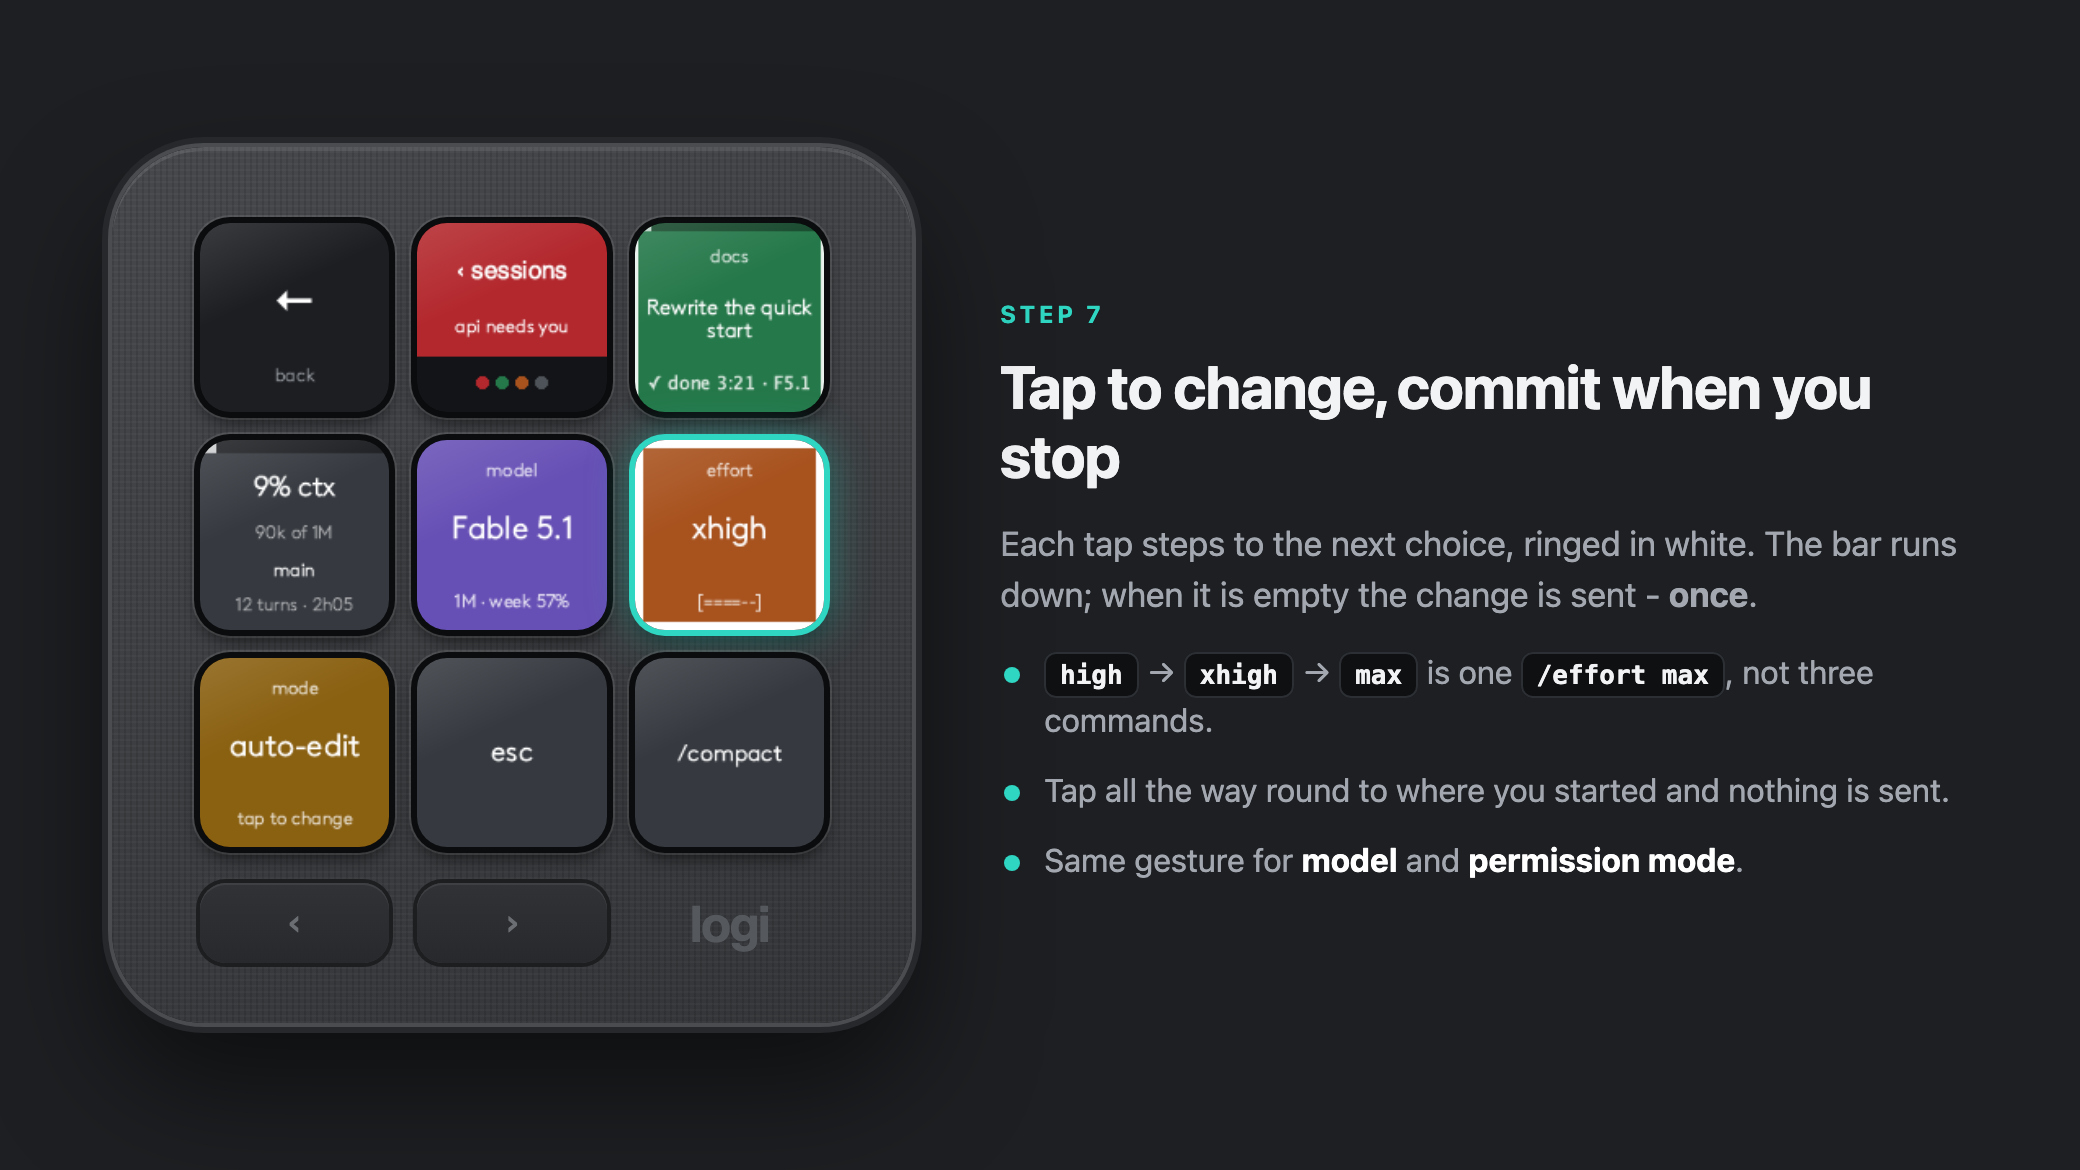
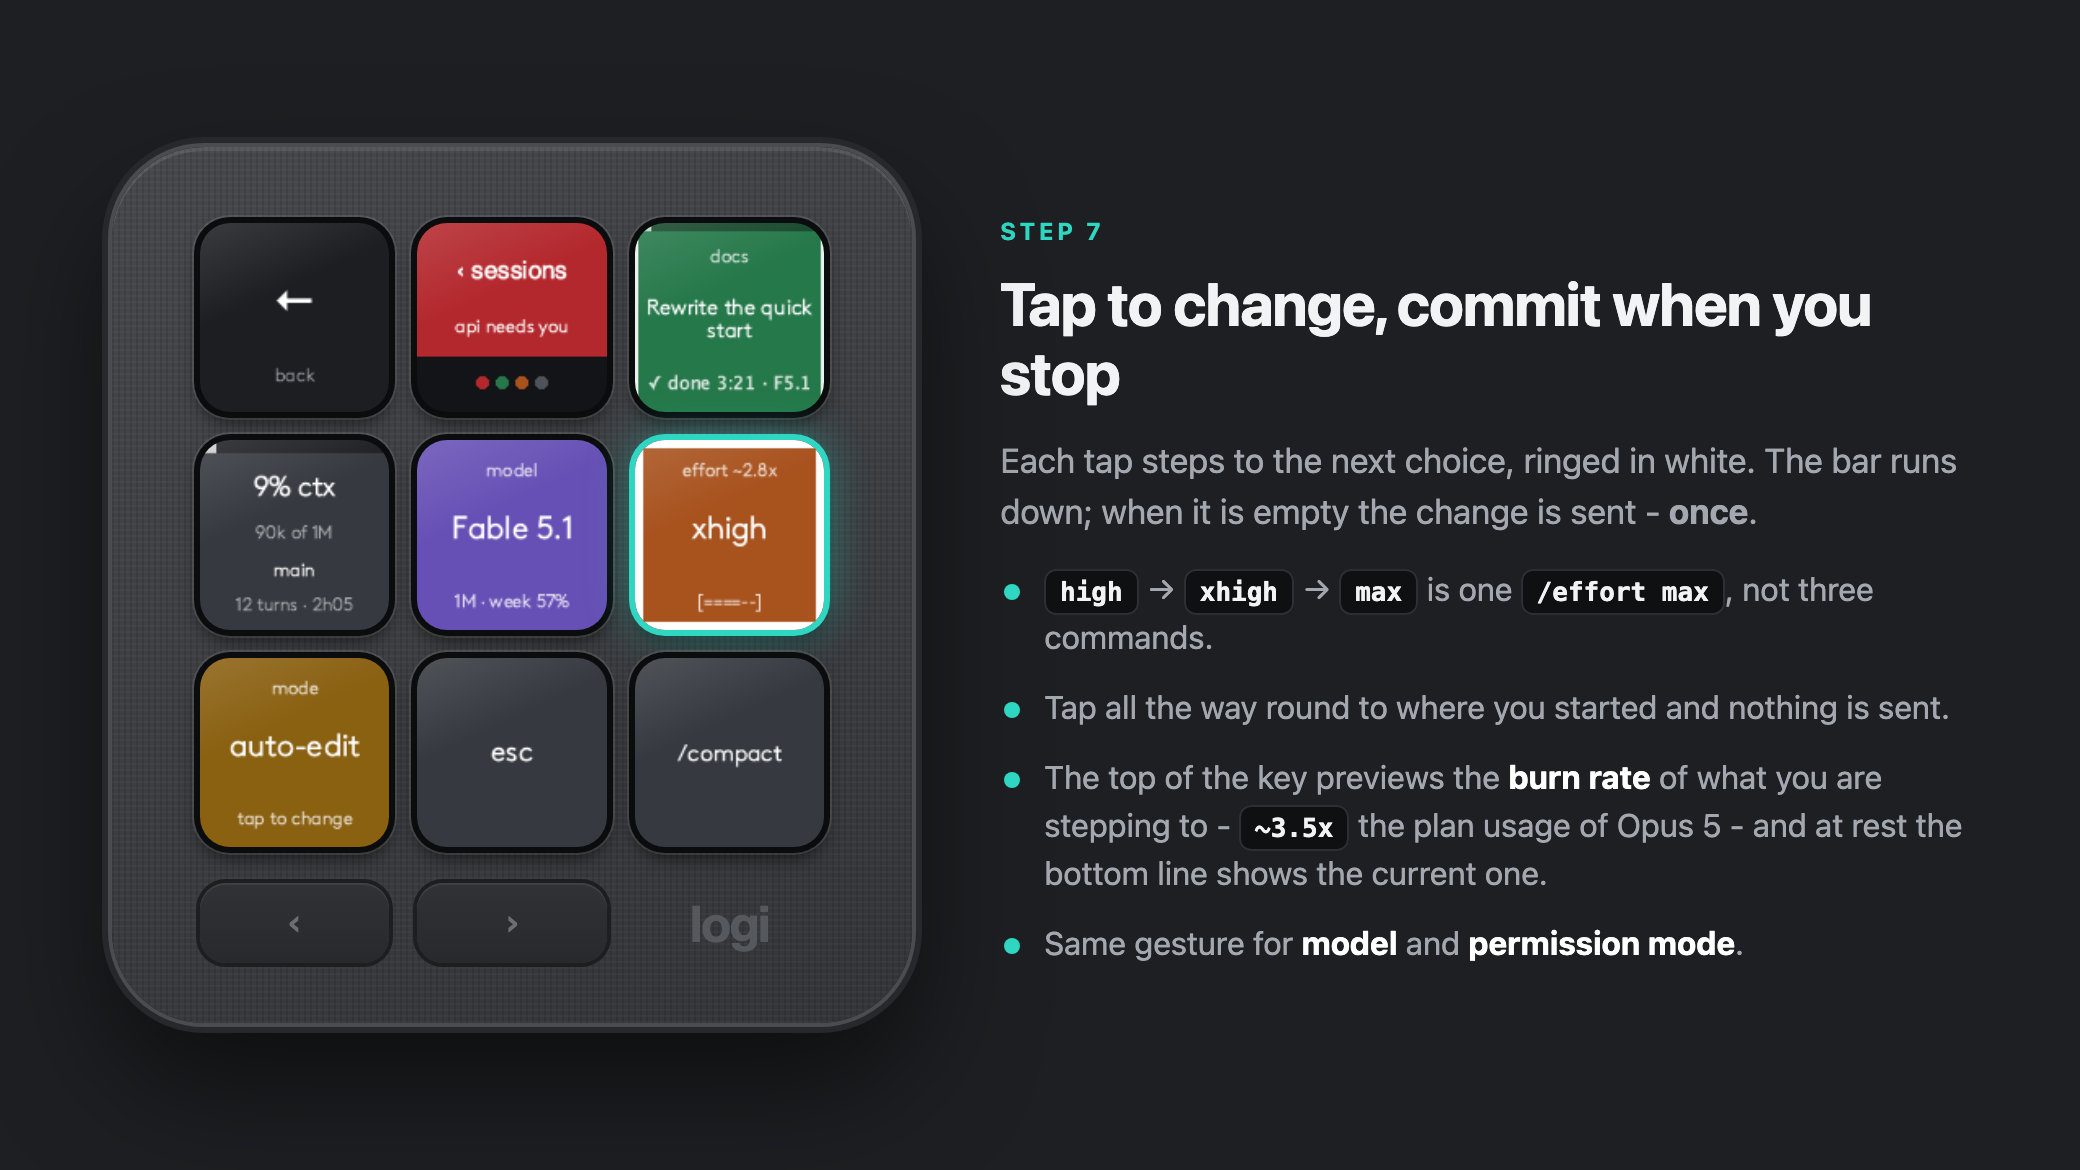
Effort key shows the burn rate against Opus 5
Under the level, how fast the session eats the plan at that model and effort
as a multiple of Opus 5 at high - ~2x opus for Fable 5.1 at high - and, while
stepping, the rate of the level being stepped to. From Claude Code's own model
table: price tier times effort_cost_index.

diff --git a/docs/steps/steps.html b/docs/steps/steps.html
@@ -219,6 +219,7 @@
       <ul>
         <li><span><kbd>high</kbd> → <kbd>xhigh</kbd> → <kbd>max</kbd> is one <kbd>/effort max</kbd>, not three commands.</span></li>
         <li><span>Tap all the way round to where you started and nothing is sent.</span></li>
+        <li><span>The top of the key previews the <b>burn rate</b> of what you are stepping to - <kbd>~3.5x</kbd> the plan usage of Opus 5 - and at rest the bottom line shows the current one.</span></li>
         <li><span>Same gesture for <b>model</b> and <b>permission mode</b>.</span></li>
       </ul>
     </div>

diff --git a/plugin/src/Sessions/ModelCosts.cs b/plugin/src/Sessions/ModelCosts.cs
@@ -1,0 +1,112 @@
+namespace Loupedeck.ClaudeDeckPlugin
+{
+    using System;
+    using System.Collections.Generic;
+    using System.Globalization;
+    using System.Text.RegularExpressions;
+
+    // How fast a session burns your plan, as a multiple of Opus 5 at its default effort (high).
+    //
+    // Two things set the rate: the model's price per token, and how much more it thinks at a higher
+    // effort. Both come from Claude Code's own model table (2.1.278) - the price tier of each model,
+    // and its effort_cost_index, which is what Claude Code itself uses to say "~1.4x" when you change
+    // effort. Plan usage is charged in proportion to price, so the product is the multiple.
+    //
+    // A model not in the table gets no line, rather than a wrong one.
+    public static class ModelCosts
+    {
+        private sealed class Cost
+        {
+            public Double Price { get; init; }               // input $/M tokens
+            public Dictionary<String, Double> Effort { get; init; }   // level -> index, high = 1
+            public String DefaultEffort { get; init; } = "high";
+        }
+
+        private static readonly Dictionary<String, Double> None = new();
+
+        // id (without date suffix or [1m]) -> cost
+        private static readonly Dictionary<String, Cost> Table = new(StringComparer.OrdinalIgnoreCase)
+        {
+            ["claude-opus-5"] = new() { Price = 5, Effort = Index(0.67, 0.76, 1, 1.6, 1.7) },
+            ["claude-fable-5-1"] = new() { Price = 10, Effort = Index(0.75, 0.86, 1, 1.38, 1.74) },
+            ["claude-fable-5"] = new() { Price = 10, Effort = Index(0.6, 0.77, 1, 1.74, 1.91) },
+            ["claude-mythos-5-1"] = new() { Price = 10, Effort = Index(0.75, 0.86, 1, 1.38, 1.74) },
+            ["claude-mythos-5"] = new() { Price = 10, Effort = None },
+            ["claude-sonnet-5"] = new() { Price = 2, Effort = Index(0.47, 0.74, 1, 2.41, 5.59) },
+            ["claude-opus-4-8"] = new() { Price = 5, Effort = Index(0.72, 0.9, 1, 1.65, 1.88) },
+            ["claude-opus-4-7"] = new() { Price = 5, Effort = None, DefaultEffort = "xhigh" },
+            ["claude-opus-4-6"] = new() { Price = 5, Effort = None },
+            ["claude-opus-4-5"] = new() { Price = 5, Effort = None },
+            ["claude-opus-4-1"] = new() { Price = 15, Effort = None },
+            ["claude-opus-4-0"] = new() { Price = 15, Effort = None },
+            ["claude-sonnet-4-6"] = new() { Price = 3, Effort = None },
+            ["claude-sonnet-4-5"] = new() { Price = 3, Effort = None },
+            ["claude-sonnet-4-0"] = new() { Price = 3, Effort = None },
+            ["claude-3-7-sonnet"] = new() { Price = 3, Effort = None },
+            ["claude-haiku-4-5"] = new() { Price = 1, Effort = None },
+            ["claude-3-5-haiku"] = new() { Price = 0.8, Effort = None },
+        };
+
+        private const String Baseline = "claude-opus-5";
+
+        private static readonly Regex Dated = new(@"-\d{8}$", RegexOptions.Compiled);
+        private static readonly Regex Bracketed = new(@"\[.*?\]", RegexOptions.Compiled);
+
+        private static Dictionary<String, Double> Index(Double low, Double medium, Double high, Double xhigh, Double max) =>
+            new() { ["low"] = low, ["medium"] = medium, ["high"] = high, ["xhigh"] = xhigh, ["max"] = max };
+
+        // The multiple for this session at the given effort, or -1 when its model is not known here.
+        public static Double Multiple(SessionInfo s, String effort)
+        {
+            var cost = Find(s);
+            if (cost == null)
+            {
+                return -1;
+            }
+
+            var level = (effort ?? "").ToLowerInvariant() switch
+            {
+                "ultracode" => "xhigh",
+                "" or "auto" => cost.DefaultEffort,
+                var e => e,
+            };
+            var index = cost.Effort.TryGetValue(level, out var i) ? i : 1;
+            var baseline = Table[Baseline];
+            return cost.Price * index / (baseline.Price * baseline.Effort[baseline.DefaultEffort]);
+        }
+
+        // "~2.8x opus" - or "1x opus" for the baseline itself.
+        public static String Label(SessionInfo s, String effort)
+        {
+            var m = Multiple(s, effort);
+            if (m < 0)
+            {
+                return "";
+            }
+
+            var rounded = Math.Round(m, m < 1 ? 2 : 1);
+            var text = Math.Abs(rounded - Math.Round(rounded)) < 0.01
+                ? ((Int32)Math.Round(rounded)).ToString(CultureInfo.InvariantCulture)
+                : rounded.ToString(m < 1 ? "0.##" : "0.#", CultureInfo.InvariantCulture);
+            return Math.Abs(m - 1) < 0.01 ? "1x opus" : $"~{text}x opus";
+        }
+
+        private static Cost Find(SessionInfo s)
+        {
+            if (s == null)
+            {
+                return null;
+            }
+
+            // The API id, as the transcript has it; else rebuilt from the name Claude Code prints.
+            var id = Bracketed.Replace(s.Model ?? "", "").Trim();
+            id = Dated.Replace(id, "");
+            if (id.Length == 0 && s.Selected.IsKnown)
+            {
+                id = "claude-" + s.Selected.Name.ToLowerInvariant().Replace('.', '-').Replace(' ', '-');
+            }
+
+            return Table.TryGetValue(id, out var cost) ? cost : null;
+        }
+    }
+}

diff --git a/plugin/src/Sessions/Settings.cs b/plugin/src/Sessions/Settings.cs
@@ -32,6 +32,9 @@ namespace Loupedeck.ClaudeDeckPlugin
         // ...and on a session's own page (which shows the title on top, so has room for more).
         public virtual String Detail(SessionInfo s) => "tap to change";
 
+        // While stepping, next to the title: what choosing this option would mean.
+        public virtual String Preview(SessionInfo s, Int32 option) => "";
+
         // Why it cannot be changed right now, or null.
         public virtual String Blocked(SessionInfo s) => Deck.Busy(s);
 
@@ -100,6 +103,16 @@ namespace Loupedeck.ClaudeDeckPlugin
         public override Int32 CurrentIndex(SessionInfo s) => Array.FindIndex(Levels, l => l.Label == s.Effort);
 
         public override String CurrentText(SessionInfo s) => s.Effort.Length > 0 ? s.Effort : "auto";
+
+        // How fast this session burns the plan at this effort, against Opus 5: "~2.8x opus".
+        public override String Hint(SessionInfo s) => Rate(s, s.Effort) is { Length: > 0 } r ? $"effort · {r.Replace(" opus", "")}" : "effort";
+
+        public override String Detail(SessionInfo s) => Rate(s, s.Effort) is { Length: > 0 } r ? r : "tap to change";
+
+        public override String Preview(SessionInfo s, Int32 option) =>
+            option >= 0 && option < Levels.Length ? Rate(s, Levels[option].Label).Replace(" opus", "") : "";
+
+        private static String Rate(SessionInfo s, String effort) => s == null ? "" : ModelCosts.Label(s, effort);
 
         public override Boolean Apply(SessionInfo s, Int32 from, Int32 to) =>
             to >= 0 && to < Levels.Length && Deck.RunSlash(s, $"/effort {Levels[to].Label}");
@@ -308,12 +321,15 @@ namespace Loupedeck.ClaudeDeckPlugin
         {
             var options = this.Setting.Options;
             var pending = this._pending;
+            var session = pending >= 0 ? SessionStore.Instance.Find(this._sessionKey) ?? target : target;
             if (pending >= 0 && pending < options.Count)
             {
                 // How long until the taps are taken as final, as a bar running down.
                 var left = (new DateTime(Interlocked.Read(ref this._commitsAtTicks)) - DateTime.UtcNow).TotalMilliseconds / CommitMs;
                 var hint = DeckConfig.Ascii ? TileRenderer.Ascii.Countdown(left) : "tap: next";
-                return TileRenderer.Model(this.Setting.Title, options[pending].Label, hint, options[pending].Color, true, false, size);
+                var preview = this.Setting.Preview(session, pending);
+                var title = preview.Length > 0 ? $"{this.Setting.Title} {preview}" : this.Setting.Title;
+                return TileRenderer.Model(title, options[pending].Label, hint, options[pending].Color, true, false, size);
             }
 
             if (target == null)

diff --git a/README.md b/README.md
@@ -125,11 +125,11 @@ one and you are on that session's own page:**
 ├───────────┼───────────┼───────────┤   the tile    live; press = jump to its pane, hold = interrupt
 │  32% ctx  │   model   │  effort   │   info        context % and tokens, branch, turns, age
 │ 317k of 1M│ Fable 5.1 │   high    │   model       tap to step (see Model switch); underneath, how
-│ feat/hero │1M·week 57%│           │               much of THAT model's weekly window is gone
-├───────────┼───────────┼───────────┤   effort      auto · low · medium · high · xhigh · max · ultracode
-│   mode    │    esc    │ /compact  │   mode        ask · auto-edit · plan · [bypass] · [auto]
-│ auto-edit │           │           │   then your command keys; more on the next page ▶
-└───────────┴───────────┴───────────┘
+│ feat/hero │1M·week 57%│ ~2x opus  │               much of THAT model's weekly window is gone
+├───────────┼───────────┼───────────┤   effort      auto · low · medium · high · xhigh · max · ultracode;
+│   mode    │    esc    │ /compact  │               underneath, how fast this burns the plan (see below)
+│ auto-edit │           │           │   mode        ask · auto-edit · plan · [bypass] · [auto]
+└───────────┴───────────┴───────────┘   then your command keys; more on the next page ▶
   next page ▶  any further command keys, then the usage row along the bottom:
                session · weekly · this session's model (fable week 57%)
 ```
@@ -154,6 +154,23 @@ limited; any later reply, or the reset time passing, means not.
 - **Everything that can be changed is changed the same way:** tap to step through the choices, ringed
   in white; it is sent once, a second and a half after your last tap. Tapping back round to the value
   in use sends nothing.
+- **The effort key's bottom line is the burn rate**: how fast the session eats your plan at that model
+  and effort, as a multiple of **Opus 5 at its default effort (high)**. `~2x opus` on Fable 5.1 at
+  high; tap towards `max` and the top of the key previews what you are stepping to (`effort ~3.5x`).
+  Two things set it: the model's price per token, and how much more it thinks at a higher effort -
+  both from Claude Code's own model table (the `effort_cost_index` it uses to say "~1.4x" when you
+  change effort). Plan usage is charged in proportion to price, so the product is the multiple.
+
+  | | low | medium | high | xhigh / ultracode | max |
+  |---|---|---|---|---|---|
+  | **Opus 5** | ~0.67x | ~0.76x | **1x** | ~1.6x | ~1.7x |
+  | **Fable 5.1** | ~1.5x | ~1.7x | ~2x | ~2.8x | ~3.5x |
+  | **Sonnet 5** | ~0.19x | ~0.3x | ~0.4x | ~0.96x | ~2.2x |
+  | **Haiku 4.5** | ~0.2x | ~0.2x | ~0.2x | ~0.2x | ~0.2x |
+
+  The table is Claude Code 2.1.278's (`plugin/src/Sessions/ModelCosts.cs`); a model it does not
+  list gets no line rather than a wrong one. It is a rate, not a bill: `~2x` means the same work
+  drains the weekly window twice as fast as it would on Opus 5.
 - **Effort** is read from the session's own `/effort` history (the whole transcript is searched once,
   since one early `/effort` can be megabytes back), else `effortLevel` in your settings, else `auto`.
 - **Permission mode** is changed with Shift-Tab, so a change is sent as that many steps round Claude
@@ -263,7 +280,7 @@ without opening it.
 | **Working** | how many are still running | walks them |
 | **Allow** | the oldest open permission prompt *spelled out*: tool, command, project | **allows it**. **Hold** to go and look instead |
 | **Model** | the target session's model, and whether it is on the 1M window | steps to the next model; commits when you stop tapping |
-| **Effort** | its effort level | steps `auto → low → medium → high → xhigh → max → ultracode` (xhigh plus multi-agent orchestration, this session only) |
+| **Effort** | its effort level, and the burn rate against Opus 5 (`effort · ~2x`) | steps `auto → low → medium → high → xhigh → max → ultracode` (xhigh plus multi-agent orchestration, this session only) |
 | **Permission mode** | `ask`, `auto-edit`, `plan`, and `bypass` / `auto` where enabled | steps it (Shift-Tab) |
 | **Commands → …** | each key from `config.json` | types it, only if a terminal is already in front |
 | **Send to Claude** | a label you choose | text + Return configured in the Options+ form |
